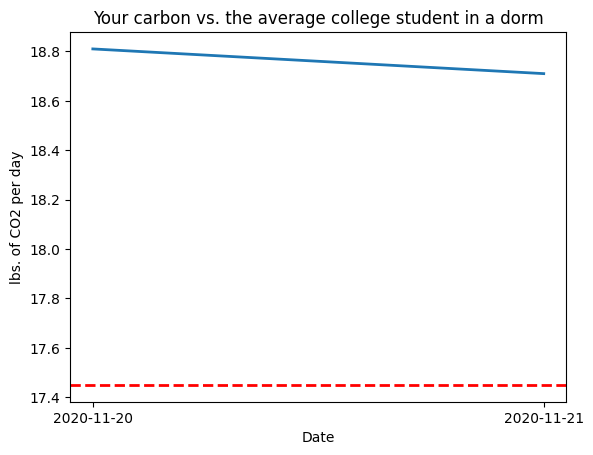
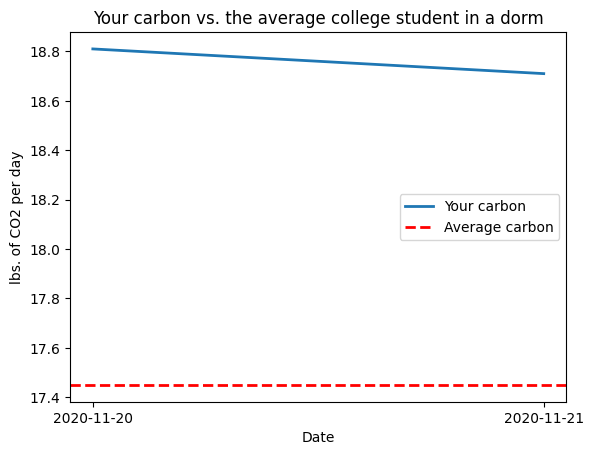
added legend to graph

Changed region(s): [[0.6678, 0.4308, 0.8803, 0.4615], [0.7589, 0.4923, 0.941, 0.5231], [0.6678, 0.4923, 0.7285, 0.5231]]

diff --git a/avg_carbon.py b/avg_carbon.py
@@ -26,7 +26,7 @@ def avg_carbon(usr_carbon, userID):
     plt.title("Your carbon vs. the average college student in a dorm")
     plt.ylabel("lbs. of CO2 per day")
     plt.xlabel("Date")
-
+    plt.legend(facecolor='inherit')
     path = "static/figures/"+ userID +"_avg_carbon"#added username to create folders for user for syconicity
     plt.savefig(path, bbox_inches='tight', transparent=True)
     #plt.show()
